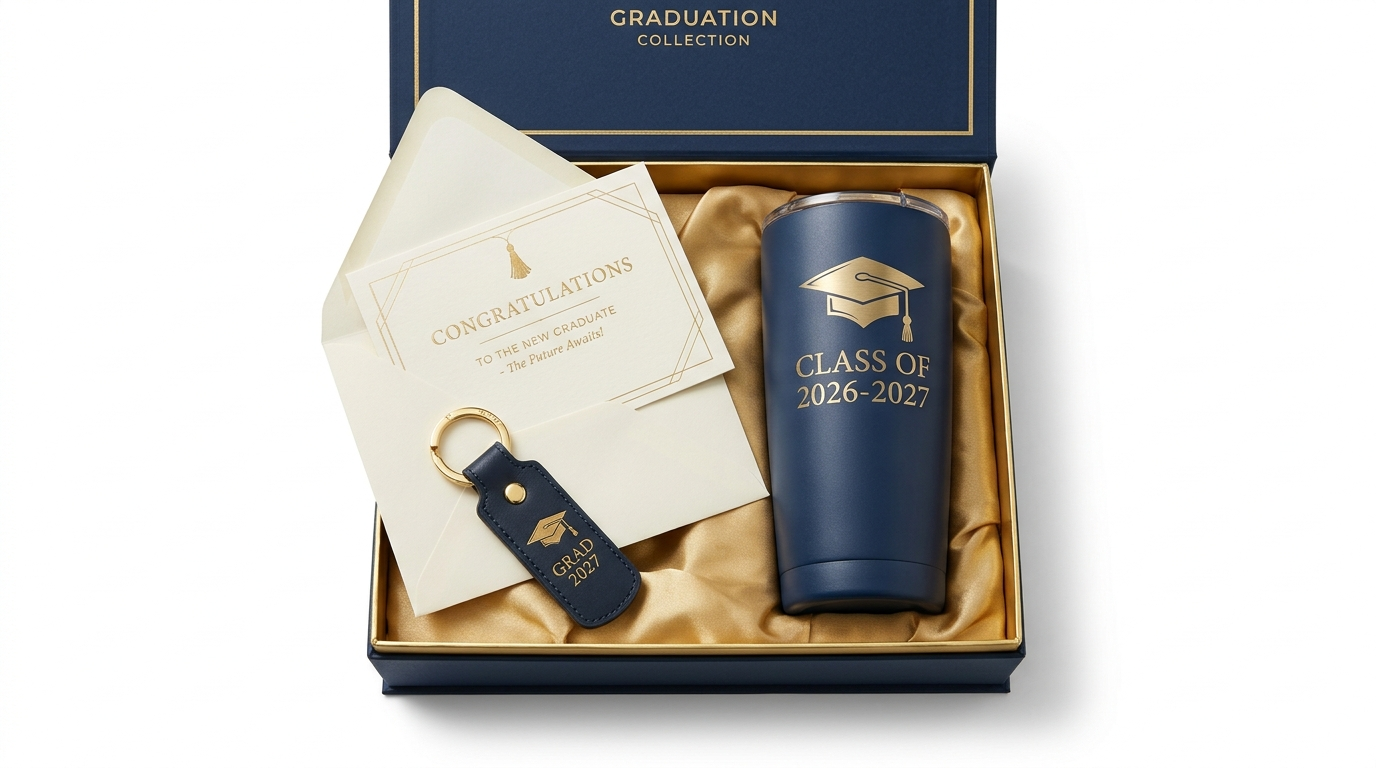
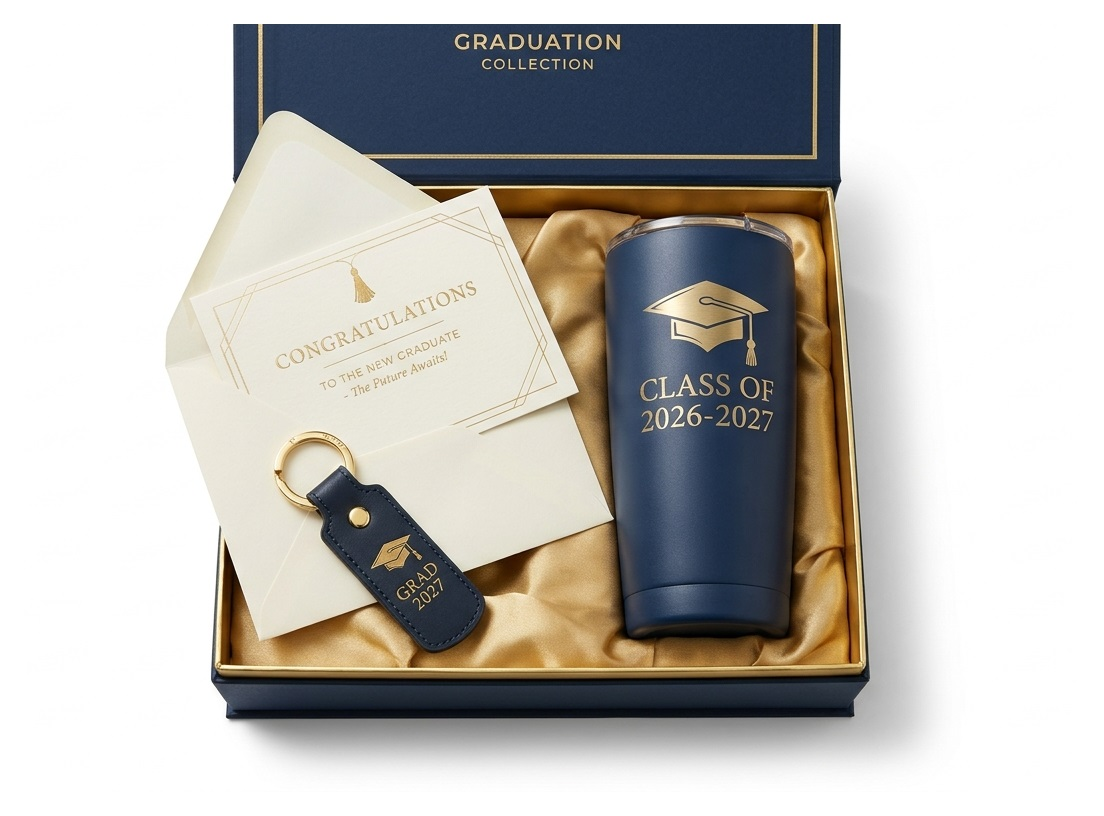
fix: optimalkan rasio gambar artikel pilihan agar produk box wisuda tampil besar, jelas, dan utuh tanpa terpotong

diff --git a/blog.html b/blog.html
@@ -58,9 +58,9 @@
     <!-- Featured Post (Artikel Pilihan): Horizontal Card dengan Harga di Sebelah Gambar -->
     <article class="card-wd mb-4 blog-item" data-category="ide" style="border: 1.5px solid #BAE6FD !important; border-radius: 20px; overflow: hidden; background: #FFFFFF;">
         <div class="row g-0 align-items-center">
-            <div class="col-lg-6 position-relative p-3 p-md-4 d-flex align-items-center justify-content-center" style="background: #FFFFFF;">
+            <div class="col-lg-6 position-relative p-2 p-md-3 d-flex align-items-center justify-content-center" style="background: #FFFFFF;">
                 <a href="/blog/ide-souvenir-wisuda-murah-berkesan" class="d-flex align-items-center justify-content-center w-100">
-                    <img src="assets/img/blog/ide-souvenir-wisuda-murah-berkesan.jpg" width="1200" height="675" class="w-100 img-fluid" style="max-height: 360px; width: auto; object-fit: contain; border-radius: 12px;" loading="lazy" decoding="async" alt="Ilustrasi artikel: Ide Souvenir Wisuda Murah tapi Tetap Berkesan">
+                    <img src="assets/img/blog/ide-souvenir-wisuda-murah-berkesan.jpg" width="1104" height="816" class="w-100 img-fluid" style="max-height: 400px; width: 100%; height: auto; object-fit: contain; border-radius: 14px;" loading="lazy" decoding="async" alt="Ilustrasi artikel: Ide Souvenir Wisuda Murah tapi Tetap Berkesan">
                 </a>
                 <span class="badge badge-gold position-absolute top-0 start-0 m-3 shadow-sm px-3 py-2">⭐ Artikel Pilihan</span>
             </div>
@@ -312,7 +312,7 @@
                 <div class="row g-0 h-100 align-items-center">
                     <div class="col-sm-5 position-relative p-2 p-md-3 d-flex align-items-center justify-content-center" style="background: #FFFFFF;">
                         <a href="/blog/ide-souvenir-wisuda-murah-berkesan" class="d-flex align-items-center justify-content-center w-100">
-                            <img src="assets/img/blog/ide-souvenir-wisuda-murah-berkesan.jpg" width="1200" height="675" class="w-100 img-fluid" style="max-height: 220px; width: auto; object-fit: contain; border-radius: 10px;" loading="lazy" decoding="async" alt="Ide Souvenir Wisuda Murah tapi Tetap Berkesan">
+                            <img src="assets/img/blog/ide-souvenir-wisuda-murah-berkesan.jpg" width="1104" height="816" class="w-100 img-fluid" style="max-height: 220px; width: auto; object-fit: contain; border-radius: 10px;" loading="lazy" decoding="async" alt="Ide Souvenir Wisuda Murah tapi Tetap Berkesan">
                         </a>
                     </div>
                     <div class="col-sm-7 p-3 p-xl-4 d-flex flex-column justify-content-between">
